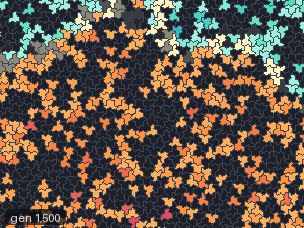
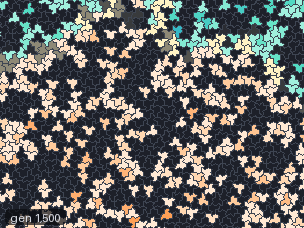
JACA: the -1 cells default to Koi, so still territories of the two signs stay apart
JACA colours each sign by age, and cells that live on take their
palette's last colour. The default pair, Tide (+1) and Ember (-1), both
end in nearly the same dark indigo (#2b2470 and #2b2d6e, 9 apart in
CIELAB), so once a territory went still the two signs looked alike. That
is the state most JACA runs settle into, and it was the main complaint of
Jimmie's ratings of 227 JACA clips ("similar coloring").

The -1 default is now Koi (white to red), which stays 30 to 111 apart
from Tide over the older half of the ramps (Jimmie picked it from a
comparison of Ember, Lava, Koi, Neon, Autumn and Thermal). The 13 Quick
Start presets and the two book scenes that paired Tide with Ember follow;
the other preset pairs already keep at least 20 apart. The book's two
figures from those scenes are rendered again (render-animations.sh), and
the palette and scene-format references name the new default.

New test: the default pair and every JACA preset's pair keep at least
20 apart (CIELAB) at every age past the middle of their ramps; it fails
on Tide/Ember.

Fixes #6

diff --git a/crates/jetcarp-core/tests/jaca.rs b/crates/jetcarp-core/tests/jaca.rs
@@ -298,7 +298,7 @@ fn seeds_and_defaults() {
     .unwrap();
     let ca = &w.cas[0];
     assert_eq!(ca.palette, "Tide");
-    assert_eq!(ca.palette_neg, "Ember");
+    assert_eq!(ca.palette_neg, "Koi");
     assert!(ca.glow);
     assert_eq!(
         ca.seed,
@@ -545,5 +545,104 @@ fn presets_load_and_start_with_both_signs() {
         w.apply(Command::Step { gens: 50 }).unwrap();
         let (a, b) = counts(&w);
         assert!(a > 0 && b > 0, "{} after 50: {a} {b}", p.id);
+    }
+}
+
+/// CIELAB colour of an sRGB colour, for telling how far apart two colours look.
+fn lab([r, g, b]: [f64; 3]) -> [f64; 3] {
+    let lin = |u: f64| {
+        let u = u / 255.0;
+        if u > 0.04045 {
+            ((u + 0.055) / 1.055).powf(2.4)
+        } else {
+            u / 12.92
+        }
+    };
+    let (r, g, b) = (lin(r), lin(g), lin(b));
+    let x = (0.4124 * r + 0.3576 * g + 0.1805 * b) / 0.95047;
+    let y = 0.2126 * r + 0.7152 * g + 0.0722 * b;
+    let z = (0.0193 * r + 0.1192 * g + 0.9505 * b) / 1.08883;
+    let t = |v: f64| {
+        if v > 0.008856 {
+            v.cbrt()
+        } else {
+            7.787 * v + 16.0 / 116.0
+        }
+    };
+    [
+        116.0 * t(y) - 16.0,
+        500.0 * (t(x) - t(y)),
+        200.0 * (t(y) - t(z)),
+    ]
+}
+
+/// A palette's colour at `f` (0 its first stop, 1 its last), as the age colouring ramps it.
+fn ramp(p: &Palette, f: f64) -> [f64; 3] {
+    let n = p.stops.len() - 1;
+    let x = f.clamp(0.0, 1.0) * n as f64;
+    let i = (x.floor() as usize).min(n - 1);
+    let u = x - i as f64;
+    let (a, b) = (p.stops[i], p.stops[i + 1]);
+    [0, 1, 2].map(|k| a[k] as f64 + (b[k] as f64 - a[k] as f64) * u)
+}
+
+/// How far apart a JACA palette pair's colours look over the older half of their ramps (CIELAB
+/// distance, the smallest over ages 0.5 to 1): what still territories of the two signs show.
+fn older_half_contrast(pos: &str, neg: &str) -> f64 {
+    let p = Palette::builtin(pos).unwrap_or_else(|| panic!("no palette {pos}"));
+    let q = Palette::builtin(neg).unwrap_or_else(|| panic!("no palette {neg}"));
+    (5..=10)
+        .map(|i| {
+            let (a, b) = (lab(ramp(&p, i as f64 / 10.0)), lab(ramp(&q, i as f64 / 10.0)));
+            ((a[0] - b[0]).powi(2) + (a[1] - b[1]).powi(2) + (a[2] - b[2]).powi(2)).sqrt()
+        })
+        .fold(f64::INFINITY, f64::min)
+}
+
+/// Issue #6: JACA's palette pairs keep the two signs apart as their cells age. Tide and Ember,
+/// the defaults until 0.4.2, both end in dark indigo (9 apart at the oldest), so still
+/// territories of the two signs looked alike.
+#[test]
+fn jaca_palette_pairs_keep_the_signs_apart_as_cells_age() {
+    use jetcarp_core::world::{DEFAULT_PALETTE_JACA, DEFAULT_PALETTE_NEG};
+    assert!(older_half_contrast("Tide", "Ember") < 20.0, "the check sees the old bug");
+    let d = older_half_contrast(DEFAULT_PALETTE_JACA, DEFAULT_PALETTE_NEG);
+    assert!(d >= 20.0, "default pair only {d:.1} apart");
+    let ca = World::new(TilingSpec::rect("square", 8, 8, Boundary::Wrap), 1)
+        .and_then(|mut w| {
+            w.apply(Command::AddCa {
+                ca: CaSpec::new("JACA B3/S23"),
+            })?;
+            Ok(w)
+        })
+        .unwrap()
+        .cas[0]
+        .clone();
+    assert_eq!(
+        (ca.palette.as_str(), ca.palette_neg.as_str()),
+        (DEFAULT_PALETTE_JACA, DEFAULT_PALETTE_NEG)
+    );
+    // Every JACA preset in the Quick Start.
+    let presets: serde_json::Value =
+        serde_json::from_str(include_str!("../data/scenes/presets/jaca.json")).unwrap();
+    let mut pairs = Vec::new();
+    fn walk(v: &serde_json::Value, out: &mut Vec<(String, String)>) {
+        match v {
+            serde_json::Value::Object(m) => {
+                if let Some(neg) = m.get("palette_neg").and_then(|x| x.as_str()) {
+                    let pos = m.get("palette").and_then(|x| x.as_str()).unwrap_or("Tide");
+                    out.push((pos.to_string(), neg.to_string()));
+                }
+                m.values().for_each(|x| walk(x, out));
+            }
+            serde_json::Value::Array(a) => a.iter().for_each(|x| walk(x, out)),
+            _ => {}
+        }
+    }
+    walk(&presets, &mut pairs);
+    assert!(pairs.len() >= 70, "{} presets read", pairs.len());
+    for (pos, neg) in pairs {
+        let d = older_half_contrast(&pos, &neg);
+        assert!(d >= 20.0, "preset pair {pos}/{neg} only {d:.1} apart");
     }
 }

diff --git a/crates/jetcarp-core/src/world.rs b/crates/jetcarp-core/src/world.rs
@@ -272,6 +272,14 @@ fn is_one_f(v: &f64) -> bool {
     *v == 1.0
 }
 
+/// JACA's default palettes: Tide for +1 cells and Koi for -1 cells. The two must stay apart at every
+/// age: cells that live on take the last colour, so a still territory of each sign shows its
+/// palette's last stop (Tide's dark indigo against Koi's red). Ember, the default until 0.4.2, ends
+/// in nearly Tide's indigo, and still territories of the two signs looked alike (issue #6).
+pub const DEFAULT_PALETTE_JACA: &str = "Tide";
+/// See [`DEFAULT_PALETTE_JACA`].
+pub const DEFAULT_PALETTE_NEG: &str = "Koi";
+
 /// A CA as saved in scenes. Missing fields take the rule's defaults.
 #[derive(Clone, Debug, PartialEq, Serialize, Deserialize)]
 pub struct CaSpec {
@@ -298,7 +306,7 @@ pub struct CaSpec {
     pub color_by: ColorBy,
     #[serde(default, skip_serializing_if = "is_bounce")]
     pub agent_edge: AgentEdge,
-    /// JACA: the palette of -1 cells (`palette` colours +1 cells).
+    /// JACA: the palette of -1 cells (`palette` colours +1 cells; default [`DEFAULT_PALETTE_NEG`]).
     #[serde(default, skip_serializing_if = "Option::is_none")]
     pub palette_neg: Option<String>,
     /// JACA: draw a fading glow where cells were annihilated.
@@ -1580,8 +1588,11 @@ impl World {
             palette: spec
                 .palette
                 .clone()
-                .unwrap_or_else(|| if is_jaca { "Tide" } else { "Ember" }.into()),
-            palette_neg: spec.palette_neg.clone().unwrap_or_else(|| "Ember".into()),
+                .unwrap_or_else(|| if is_jaca { DEFAULT_PALETTE_JACA } else { "Ember" }.into()),
+            palette_neg: spec
+                .palette_neg
+                .clone()
+                .unwrap_or_else(|| DEFAULT_PALETTE_NEG.into()),
             glow: spec.glow,
             heat: None,
             seed: seed.clone(),

diff --git a/crates/jetcarp-core/src/quickstart.rs b/crates/jetcarp-core/src/quickstart.rs
@@ -284,8 +284,8 @@ pub fn scene_for(e: &CatalogEntry) -> Result<Scene, String> {
                 density: 0.3,
                 negative: 0.5,
             }));
-            ca.palette = Some("Tide".into());
-            ca.palette_neg = Some("Ember".into());
+            ca.palette = Some(crate::world::DEFAULT_PALETTE_JACA.into());
+            ca.palette_neg = Some(crate::world::DEFAULT_PALETTE_NEG.into());
             rect("square", 180, 120, Boundary::Wrap)
         }
         Rule::Ltl(l) => {

diff --git a/crates/jetcarp-mcp/resources/docs/reference/scene-format.md b/crates/jetcarp-mcp/resources/docs/reference/scene-format.md
@@ -133,7 +133,7 @@ Every field but `rule` may be left out; a saved scene writes them all.
 | `affects_others` | `true` for binary rules, else `false` | Whether it shares the field with the other automata of its kind, or keeps a private one that is only drawn alongside. Sandpiles always keep their own |
 | `steps_per_gen` | `1` | Steps this automaton takes each generation (1 to 100,000) |
 | `palette` | Ember (Tide for JACA) | Its [palette](palettes.md) |
-| `palette_neg` | Ember | JACA only: the palette of −1 cells |
+| `palette_neg` | Koi | JACA only: the palette of −1 cells |
 | `glow` | `true` | JACA only: draw the fading glow of destroyed cells |
 | `color_by` | `"auto"` | `"auto"`, `"age"`, `"state"` or `"row"` (see [Palettes](palettes.md#how-a-palette-colours-cells)) |
 | `seed` | the rule's default | What it puts on the field when the world is built or reset (see [Seeds](#seeds)) |

diff --git a/docs/src/reference/scene-format.md b/docs/src/reference/scene-format.md
@@ -133,7 +133,7 @@ Every field but `rule` may be left out; a saved scene writes them all.
 | `affects_others` | `true` for binary rules, else `false` | Whether it shares the field with the other automata of its kind, or keeps a private one that is only drawn alongside. Sandpiles always keep their own |
 | `steps_per_gen` | `1` | Steps this automaton takes each generation (1 to 100,000) |
 | `palette` | Ember (Tide for JACA) | Its [palette](palettes.md) |
-| `palette_neg` | Ember | JACA only: the palette of −1 cells |
+| `palette_neg` | Koi | JACA only: the palette of −1 cells |
 | `glow` | `true` | JACA only: draw the fading glow of destroyed cells |
 | `color_by` | `"auto"` | `"auto"`, `"age"`, `"state"` or `"row"` (see [Palettes](palettes.md#how-a-palette-colours-cells)) |
 | `seed` | the rule's default | What it puts on the field when the world is built or reset (see [Seeds](#seeds)) |

diff --git a/crates/jetcarp-mcp/resources/docs/about/changelog.md b/crates/jetcarp-mcp/resources/docs/about/changelog.md
@@ -28,6 +28,13 @@ that will declare them stable.
   runs to its end; a stop still takes effect within moments.
   ([#3](https://github.com/jprodgers/jetcarp/issues/3))
 
+- **The two signs of JACA looked alike once their territories went still.** JACA colours each sign
+  by age, and its default palettes, Tide and Ember, both end in nearly the same dark indigo, so old
+  cells of either sign showed the same colour. The −1 cells now default to Koi, whose reds stay apart
+  from Tide's blues at every age; so do the 13 Quick Start presets and the book's scenes that paired
+  Tide with Ember. A test keeps every JACA palette pair apart as cells age.
+  ([#6](https://github.com/jprodgers/jetcarp/issues/6))
+
 ### Changed
 
 - **Upgrading JETCARP upgrades its GNOME extension.** The background host, when it starts, and any

diff --git a/docs/src/about/changelog.md b/docs/src/about/changelog.md
@@ -28,6 +28,13 @@ that will declare them stable.
   runs to its end; a stop still takes effect within moments.
   ([#3](https://github.com/jprodgers/jetcarp/issues/3))
 
+- **The two signs of JACA looked alike once their territories went still.** JACA colours each sign
+  by age, and its default palettes, Tide and Ember, both end in nearly the same dark indigo, so old
+  cells of either sign showed the same colour. The −1 cells now default to Koi, whose reds stay apart
+  from Tide's blues at every age; so do the 13 Quick Start presets and the book's scenes that paired
+  Tide with Ember. A test keeps every JACA palette pair apart as cells age.
+  ([#6](https://github.com/jprodgers/jetcarp/issues/6))
+
 ### Changed
 
 - **Upgrading JETCARP upgrades its GNOME extension.** The background host, when it starts, and any

diff --git a/crates/jetcarp-mcp/resources/docs/reference/palettes.md b/crates/jetcarp-mcp/resources/docs/reference/palettes.md
@@ -54,7 +54,7 @@ as Verdigris, end on a bright stop, so a pattern that has settled stays vivid un
 
 - **In a scene**, each automaton's `palette` field names its palette (see the
   [scene file format](scene-format.md#automata-cas)). A JACA automaton has a second one,
-  `palette_neg`, for its −1 cells. The defaults are Ember, and for JACA Tide (+1) and Ember (−1).
+  `palette_neg`, for its −1 cells. The defaults are Ember, and for JACA Tide (+1) and Koi (−1), which stay apart at every age.
 - **On the command line**, commands that draw pictures, such as `jetcarp wallpaper`,
   `jetcarp hashlife`, `jetcarp sheet` and `jetcarp search pile`, take `--palette NAME`.
 - **Your own colours.** Wherever a palette name is accepted you can also write colours: `#4fc3ff`

diff --git a/docs/src/reference/palettes.md b/docs/src/reference/palettes.md
@@ -54,7 +54,7 @@ as Verdigris, end on a bright stop, so a pattern that has settled stays vivid un
 
 - **In a scene**, each automaton's `palette` field names its palette (see the
   [scene file format](scene-format.md#automata-cas)). A JACA automaton has a second one,
-  `palette_neg`, for its −1 cells. The defaults are Ember, and for JACA Tide (+1) and Ember (−1).
+  `palette_neg`, for its −1 cells. The defaults are Ember, and for JACA Tide (+1) and Koi (−1), which stay apart at every age.
 - **On the command line**, commands that draw pictures, such as `jetcarp wallpaper`,
   `jetcarp hashlife`, `jetcarp sheet` and `jetcarp search pile`, take `--palette NAME`.
 - **Your own colours.** Wherever a palette name is accepted you can also write colours: `#4fc3ff`

diff --git a/crates/jetcarp-mcp/resources/docs/automata/jaca.md b/crates/jetcarp-mcp/resources/docs/automata/jaca.md
@@ -55,7 +55,7 @@ far:
 <figure class="pair">
 <div><picture>
   <source srcset="../images/automata/jaca-hat-war-still.png" media="(prefers-reduced-motion: reduce)">
-  <img src="../images/automata/jaca-hat-war.webp" alt="JACA on the hat: green and orange armies meeting along a glowing front" width="304" loading="lazy">
+  <img src="../images/automata/jaca-hat-war.webp" alt="JACA on the hat: teal and coral armies meeting along a glowing front" width="304" loading="lazy">
 </picture></div>
 <div><picture>
   <source srcset="../images/automata/jaca-square-beads-still.png" media="(prefers-reduced-motion: reduce)">

diff --git a/docs/src/automata/jaca.md b/docs/src/automata/jaca.md
@@ -55,7 +55,7 @@ far:
 <figure class="pair">
 <div><picture>
   <source srcset="../images/automata/jaca-hat-war-still.png" media="(prefers-reduced-motion: reduce)">
-  <img src="../images/automata/jaca-hat-war.webp" alt="JACA on the hat: green and orange armies meeting along a glowing front" width="304" loading="lazy">
+  <img src="../images/automata/jaca-hat-war.webp" alt="JACA on the hat: teal and coral armies meeting along a glowing front" width="304" loading="lazy">
 </picture></div>
 <div><picture>
   <source srcset="../images/automata/jaca-square-beads-still.png" media="(prefers-reduced-motion: reduce)">
